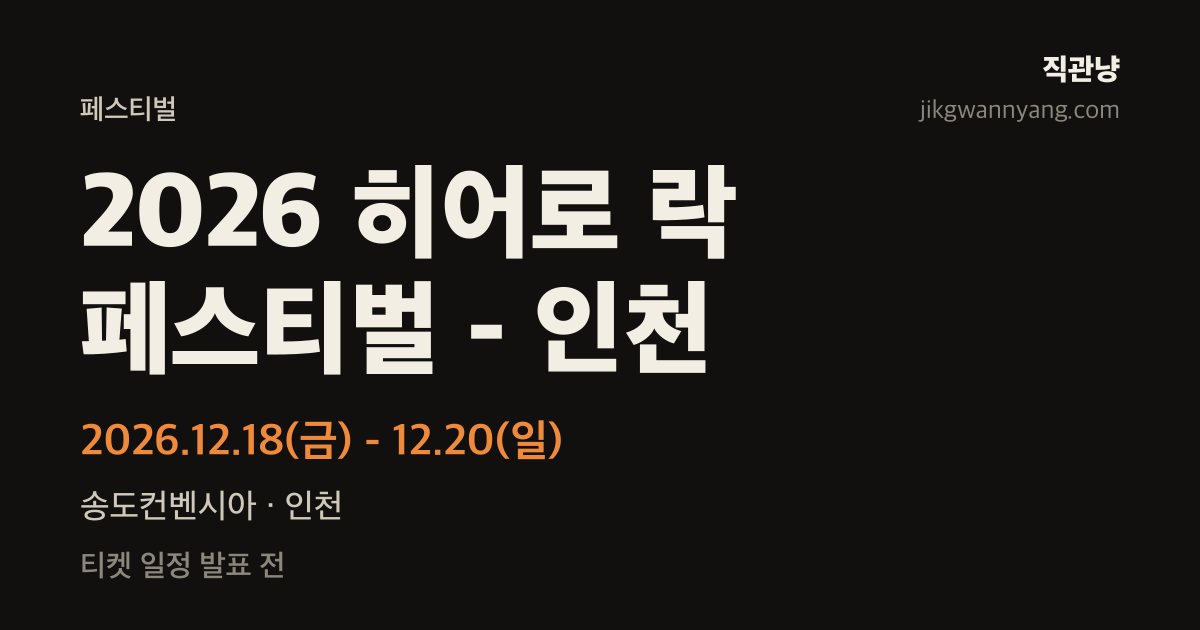
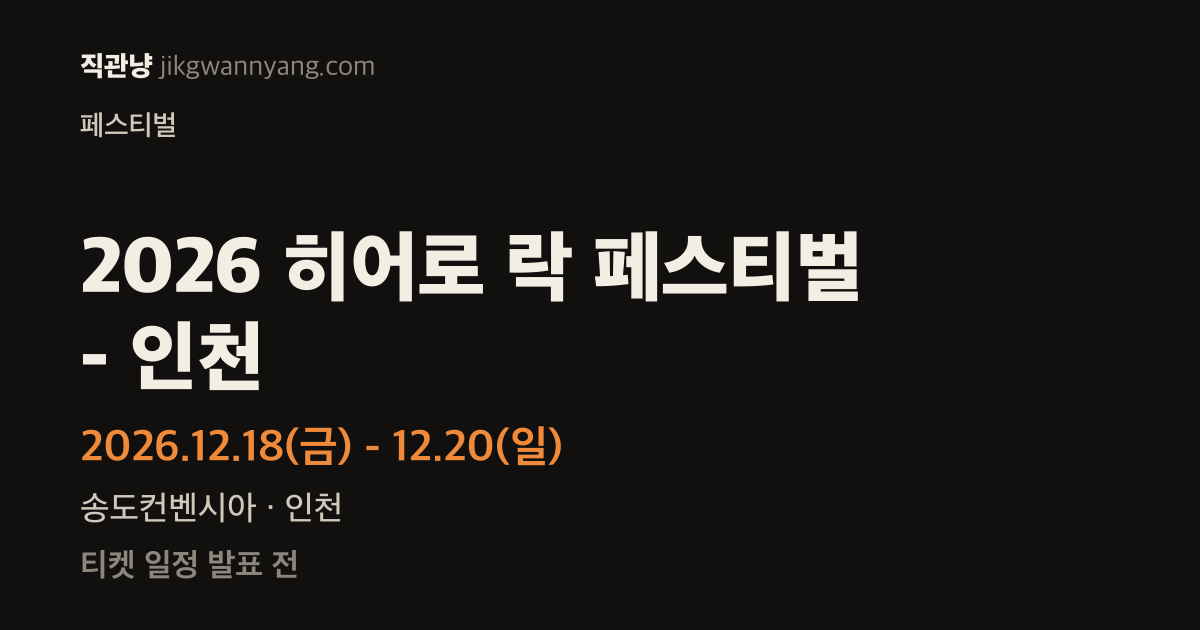
공유 카드: 포스터·날짜·티켓오픈이 들어간 가로 썸네일과 X 공유 버튼
세로 포스터를 og:image로 그대로 쓰면 X 링크 카드에서 가운데만 잘려 보였다.
예정 공연 79건에 1200x630 카드(왼쪽 공연명·날짜·공연장·티켓 상태, 오른쪽
포스터)를 만들어 공연 페이지 공유 이미지로 쓴다. 공연 페이지에 'X에 공유'·
'링크 복사', 티켓팅 연습 결과 화면에 'X에 공유'를 달았다. 공연 정보를 바꾸면
카드를 다시 만들도록 CLAUDE.md 검사 명령에 적었다.

diff --git a/CLAUDE.md b/CLAUDE.md
@@ -25,6 +25,7 @@
 - `npm run build` — events.json·글·페이지를 바꿨으면 반드시 통과해야 한다.
 - `npm run audit:posts` — 글을 쓰거나 고쳤으면 ERROR 0이어야 한다.
 - `npm run audit:events` — 공연을 추가·수정했으면 ERROR가 없어야 한다.
+- `npm run og:cards -- <공연 id>` — 공연을 새로 넣었거나 공연명·날짜·공연장·티켓오픈·포스터를 바꿨으면 그 공연의 공유 카드(`public/og/`)를 다시 만들어 같이 커밋한다. 이 맥의 한글 글꼴로 그리기 때문에 Vercel 빌드에서는 만들어지지 않는다.
 
 ## git 규칙 (모든 세션)
 
